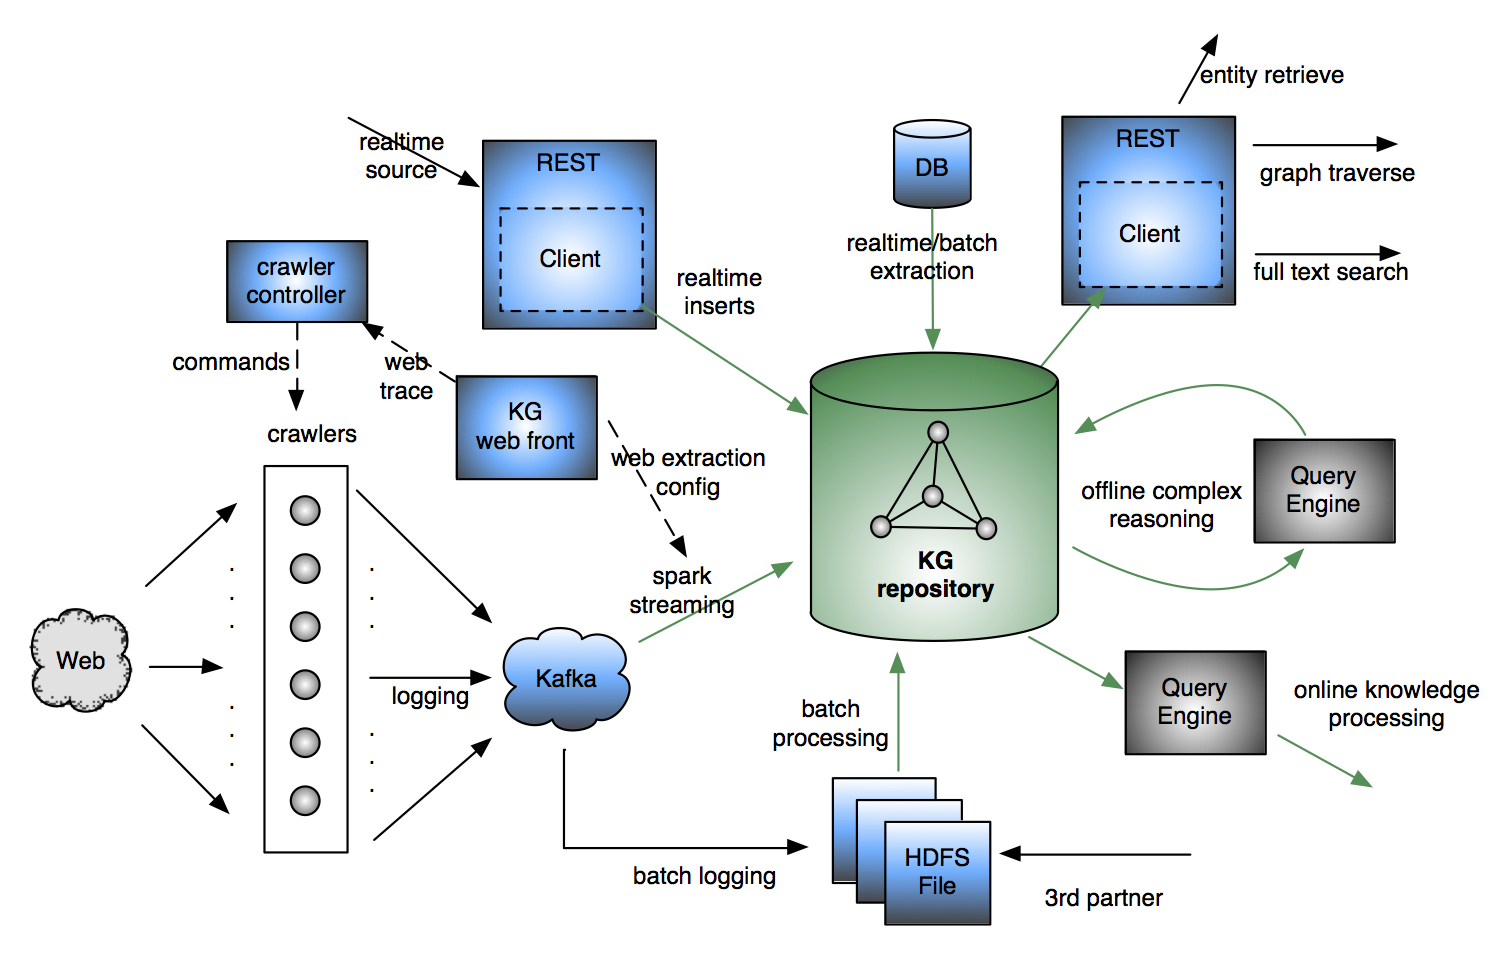
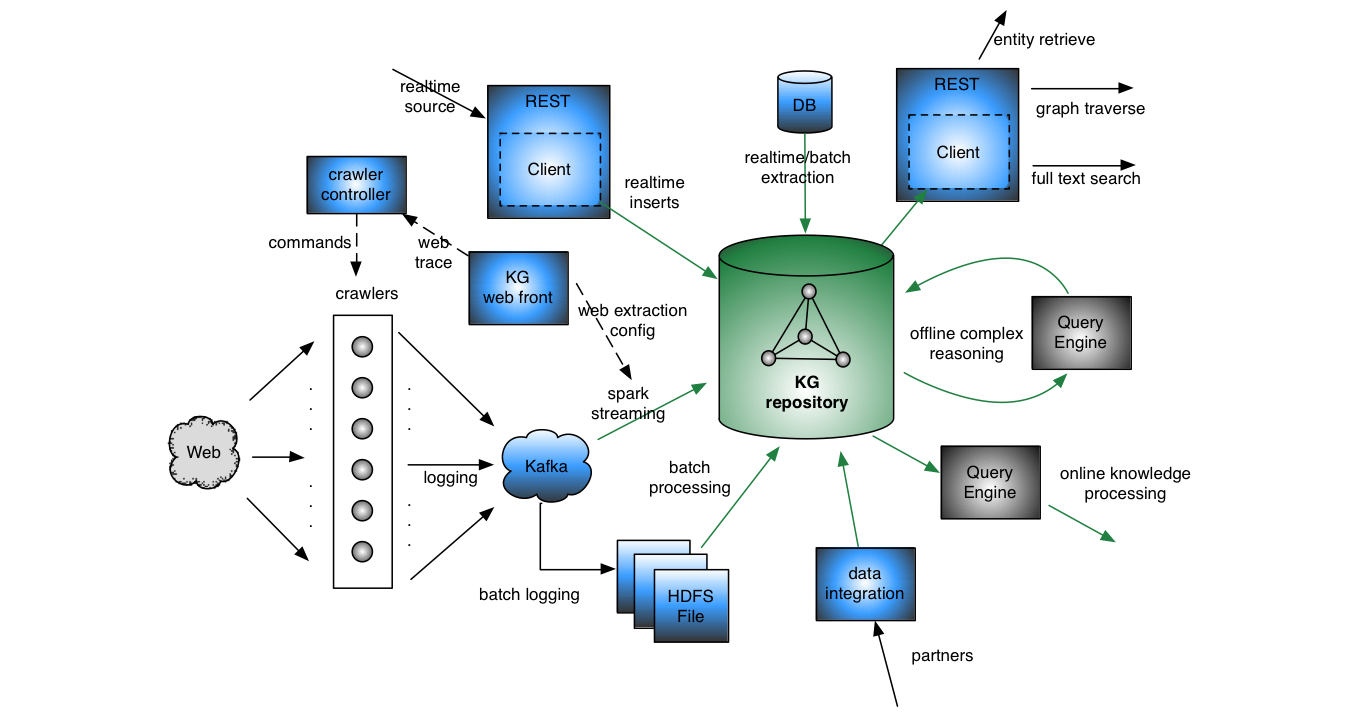
add yisou part 0

diff --git a/_posts/2016-11-03-yisou-part0.md b/_posts/2016-11-03-yisou-part0.md
@@ -1,0 +1,121 @@
+---
+layout: post
+title: 解密姨搜系列1 - 总览
+excerpt: 这是系列文章解密姨搜的第一篇，主要包括对于风控系统的理解，用户的多种需求，以及架构的总体设计。
+modified: 2016-11-03
+tags: [金融, 风控, 架构, 数据系统, 架构师]
+comments: true
+categories: tech
+---
+
+这是系列文章解密姨搜的第一篇，主要包括对于风控系统的理解，用户的多种需求，以及架构的总体设计。
+看完本篇之后，大家会对信贷场景下的风控系统有更深的认识，知道姨搜作为一个基于数据的风控基础设施，给风控带来了什么样的好处。
+希望能给大家一些有益的启发。
+
+## 信贷场景下的风控
+
+一个信贷产品大体上有如下的部分组成：
+
+![信贷产品结构图](/asserts/images/xindaichanpin.png)
+
+在上图中，越靠近上部，越偏产品的自身逻辑， 越靠近下部，越偏技术和实施。
+这里面，风控属于核心的地位，它保证了这个产品核心资产的质量。 但它不是独立存在的，产品设计和营销决定了进来的人群，而这些人群决定了用什么样的风控策略。 风控的结果需要跟客户进行沟通和交流，对于逾期等的客户需要有催收等服务。
+风险策略主要来包括一个或者一系列预测模型，建模的依据来自数据分析，建模之后还需要不间断的监控，以期在出现问题是能及时发现。 这些分析、模型运行和监控等，都需要有完整的数据系统来进行支持，而数据系统中的数据来自各种不同的数据源。
+
+熟悉数据分析和挖掘的朋友们知道，原始数据的质量很大程度上决定了特征变量的质量，而特征变量的质量决定了模型的准确度以及整个系统的质量。
+在信贷场景下，数据的特性有一些独特的地方。比如，数据的来源和形式种类繁多，很难结合使用。例如，通话详单是需要和银行卡流水一起用，但通话详单是通过运营商的API调用获得的json数据，而银行卡流水是爬虫授权后抓取下来的XML数据，如何能放到一起做分析，是很困难的。又例如，宜信作为一个很大的公司，内部有很多的信贷产品，这些产品都有各自的特点，如何让数据系统足够灵活满足各种需求，也不容易做到。
+
+## 用户的需求点
+
+### 风控政策人员
+他们一般有如下的特点：
+
+1. 对金融市场的风险有丰富经验。
+2. 有一定统计分析的背景，复杂算法的能力不足。
+3. 对负责的产品理解深刻，但对其他产品认识有限。
+
+相对应的有如下的需求：
+
+1. 灵活方便的控制风控政策的执行。这一点对于政策人员很重要，首先他们可以自主的控制风控政策的创建、修改、上线和下线等，这样能不再麻烦开发人员就可以自助的完成各种操作。再次，能做到风控政策对于无关人员的隔离，开发人员能看到的也只是一个政策的结果，而无法知道内部的原理。
+2. 执行历史的BI报表和报警机制。有了这些报表才能第一时间发现问题（例如某个规则的通过率异常升高或者降低），并有依据来采取应对措施。
+3. 简单高效的政策分析和回测。新政策的制定和旧政策的修改，都是需要个合适的开发环境。这个开发环境中需要有全部的线上数据，需要跟线上政策执行有相同的环境方便一键发布，还要有高效的分布式执行环境来加快迭代开发速度。
+4. 研究成果的跨团队共享。一个风控团队发现的新现象或者新的分析思路，需要能顺畅的共享给其他团队使用，才能总体上提升整个公司的风控能力。
+
+### 数据科学家
+
+他们一般有如下的特点：
+
+1. 对数据挖掘和机器学习算法有深入的理解。
+2. 对数据有很好的感觉。
+3. 有一定的编程能力。
+
+相对应的有如下的需求：
+
+1. 完整清晰的数据定义和数据流，方便科学家们专注于自己的强项。
+2. 高性能的分布式计算集群和基础设施。
+3. 多人协作以及跨团队协作的能力。
+4. 能轻松将研究成果应用到业务系统中。
+
+### 产品开发工程师
+
+他们一般有如下的特点：
+
+1. 专业的系统开发能力。
+2. 开发任务排期紧张。
+3. 关注系统稳定性和性能。
+
+相对应的有如下的需求：
+
+1. 对接工作尽量简单。
+2. 有完善的文档和测试环境。
+3. 有系统级别的监控报警。
+4. 有专人负责对接工作和问题联调。
+
+## 架构设计
+
+刚才看到，不管从信贷风控的场景出发，还是从用户的需求出发，对于我们姨搜都很非常多的迥异的需求。
+在对这些需求的深刻分析和理解的基础上，结合我们自身的特点，设计了姨搜的各个组成部分，并用非常创新的方法把他们实现了出来。
+这里先进行一些总体的介绍，让大家有个印象。在这个系列接下来的几篇文章中会详细的讲解每个部分。
+
+### 总体结构
+![姨搜总体结构](/asserts/images/yisou_overview.png)
+
+从数据角度看，下面的数据整合部分负责各种类型的数据的管理、融合和基础服务，实时服务主要提供给左上角的决策引擎，离线服务主要提供给右上角的分析平台，而分析平台得到的关于数据的insight，则可以推送给决策引擎来做线上服务。
+从用户的角度看，风控相关的三类人都能在我们这里得到充分的支持。数据科学家能在我们的数据上执行复杂的数据挖掘算法，风控政策人员能用实验分析平台来迭代和验证自己的想法，而贷款产品的开发人员可以使用我们提供的简洁的接口来接入风控政策服务。
+
+### 数据整合部分 – 知识图谱
+![kg总体结构](/asserts/images/kg_overview.png)
+
+我们使用知识图谱来管理数据，这个图就是我们知识图谱的大体结构。
+知识图谱是一种数据的组织形式，借鉴自语义网对事物的定义，任何一个概念（不管是人，公司还是某个房产）都是巨大的网状结构里的一个点，不同的点有不同的属性（比如人有姓名，公司有营业额，房产有建造时间），点与点之间有各种关系（比如一个人就职于某公司，拥有某个房产）。
+这种组织形式足够灵活而且足够有表达能力，并且这些数据之间的关联关系是内置的，在不同类别的数据集进行融合的时候特别有用。
+
+这里简要介绍一下我们的知识图谱的结构。
+最中间的是实际存储知识数据的图数据库，考虑到数据规模和使用场景，我们基于ES和Hbase自己研发了图数据库，可以支持各种类型的在线实时查询和离线任务。
+数据来源包括网络，内部数据库和合作第三方。
+左侧是我们的网络爬虫，在控制器的管理下，会去抓取各种公开数据和授权信息。抓下来的数据会被实时分析和处理，比如计算一个手机号的画像，并实时写入到kg中。另外还会存储到HDFS中，供离线分析用。
+第二部分是数据库，我们有自己研发的一套ETL工具，支持Oracle, mysql, hbase等，支持各种复杂变换和自定义UDF函数，而且也能支持流式计算和离线批量执行。ETL的输出可以是Hbase，mysql等，也可以直接写入到KG中。
+第三部分是合作第三方的数据。合作方的数据类型和提供方式差异巨大，我们做了一个统一的接口，对内提供一致的restful接口，并且有统一的计费管理。除了在线服务，我们还会将这些合作方对接来的数据输入到KG中。
+另外我们还提供了在线的实时写入的功能。
+
+### 政策执行部分 – 决策引擎
+![决策引擎总体结构](/asserts/images/re_overview.png)
+
+决策引擎是在线执行风控政策的组件。它不是个简单的规则引擎，而是包含了数据源自动查询、自定义的变量计算、模型计算和规则判断、界面化控制、BI报表定制化分析展示等多种功能的全流程决策支持平台。
+
+它对于产品开发人员，是一组restful API，返回对某个进件的审核结果但并不知道内部逻辑；对于风控政策人员，是一个自主控制每个细节的决策执行环境，能进行实时的调整，也能看到历史统计信息。
+内部原理上说，它包括三个部分：从知识图谱等外部数据源中获取数据，用自定义的脚本提取决策特征变量，然后是模型计算和逻辑判断。风控政策人员在我们这里获得了最大的自由度，能随意的控制执行细节，也能看到每个执行的历史和各种统计信息。
+
+
+### 实验分析部分 –  ALBUS
+![Albus总体结构](/asserts/images/albus_overview.png)
+
+Albus是为风控政策人员提供的开发环境，帮助他们快速的进行各种实验和尝试，并将结果快速推送到线上环境中执行。
+同时，它还能为数据挖掘科学家们提供了分析环境和发布环境，可以把自己的成果作为一个模块放到Albus中，而风控政策人员就能直接把它应用到实验甚至是线上决策环境中。
+
+总体上看Albus可以分为两个层面，逻辑层展示给用户并能进行操作，从逻辑上定义出一个实验，包括读数据、过滤和采样、特征计算、模型训练、结果可视化等多种模块。图中展示出的是最简单的场景，但用户可以随意组织各种模块，编制出非常复杂的实验。
+在执行层中，用户的实验定义会转换成实际执行的代码，发给后端的Spark在分布式环境中高效执行，同时保持跟前端的交互。
+
+## 总结
+这里只总结了姨搜系统中最基本的几特点，短短的文章无法面面俱到。
+我们计划用一系列文章来详细讲述我们是如何做到这些的，接下来的三篇会分别讲述知识图谱，决策引擎和实验分析平台Albus，再之后会慢慢涉及到风控搜索引擎、爬虫、ETL系统等，还望大家关注。
